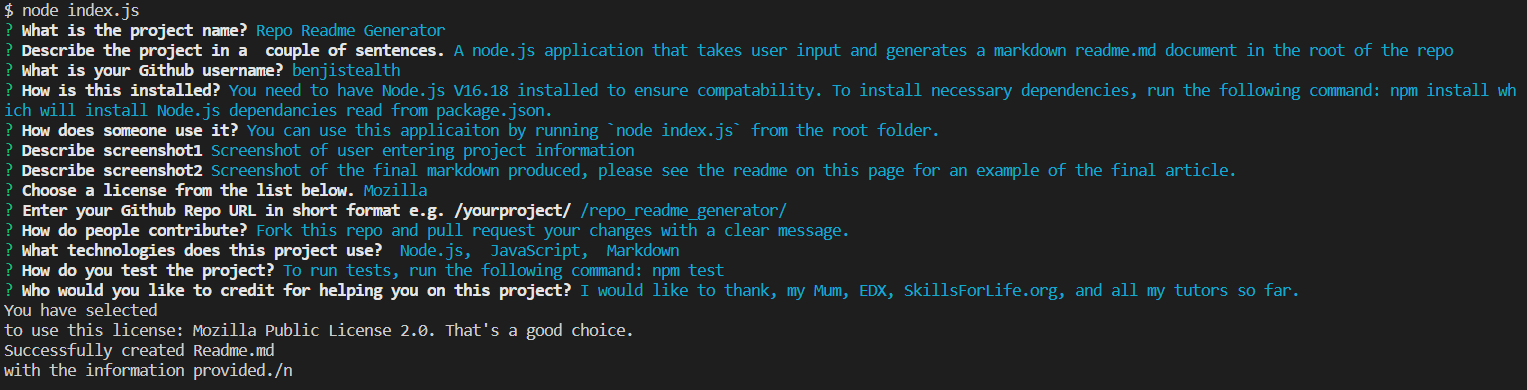
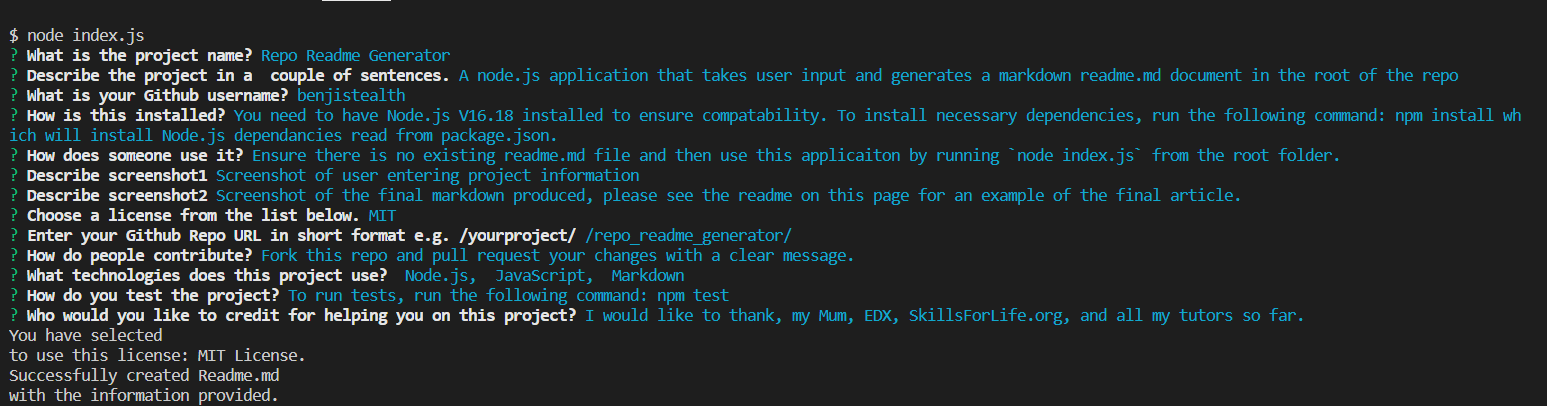
all tested and working properly, readme.md inc

Changed region(s): [[0.0, 0.0, 1.0, 1.0]]

diff --git a/assets/utils/generateMarkdown.js b/assets/utils/generateMarkdown.js
@@ -25,21 +25,17 @@ function generateMarkdown(readmeDetails) {
   const myOutputString = `You have selected
 to use this license: ${generateLicenseString(license)}.`;
 
+  for (let i = 0; i < readmeDetails.tech.length; i++) {
+    techBadge = readmeDetails.tech[i];
+    if (techBadge === " HTML") { readmeBadge += htmlBadge; }
+    if (techBadge === " CSS") { readmeBadge += cssBadge; }
+    if (techBadge === " JavaScript") { readmeBadge += jsBadge; }
+    if (techBadge === " Markdown") { readmeBadge += markdownBadge; }
+    if (techBadge === " Node.js") { readmeBadge += nodeBadge; }
+    if (techBadge === " Bootstrap") { readmeBadge += bootstrapBadge; }
+  }
 
-  
-  console.log(readmeDetails.tech);
-
-    for (let i = 0; i < readmeDetails.tech.length; i++) {
-      techBadge = readmeDetails.tech[i];
-      if (techBadge === " HTML") { readmeBadge += htmlBadge; }
-      if (techBadge === " CSS") { readmeBadge += cssBadge; }
-      if (techBadge === " JavaScript") { readmeBadge += jsBadge; }
-      if (techBadge === " Markdown") { readmeBadge += markdownBadge; }
-      if (techBadge === " Node.js") { readmeBadge += nodeBadge; }
-      if (techBadge === " Bootstrap") { readmeBadge += bootstrapBadge; }
-    }
-    
-    if (readmeBadge.length < 4) {readmeBadge = "Unknown Technology!";}
+  if (readmeBadge.length < 4) { readmeBadge = "Unknown Technology!"; }
 
 
   function generateLicenseString(license) {

diff --git a/readme.md b/readme.md
@@ -1,6 +1,7 @@
-# kuyiluyli
+
+# Repo Readme Generator
                        
-[![License: GPL v3](https://img.shields.io/badge/License-GPLv3-blue.svg)](https://www.gnu.org/licenses/gpl-3.0)
+[![License: MIT](https://img.shields.io/badge/License-MIT-yellow.svg)](https://opensource.org/licenses/MIT)
 
 
 ## Table of Contents
@@ -17,16 +18,16 @@
 
 ## Description
 
-- yilkuyiluli
+- A node.js application that takes user input and generates a markdown readme.md document in the root of the repo
 
 
-## uoluo;oiu;
+## Screenshot of user entering project information
 
     
   <img alt="Screenshot_1" src="./assets/images/screenshot1.png">
 
 
-## uo;iuo;i
+## Screenshot of the final markdown produced, please see the readme on this page for an example of the final article.
 
 
   <img alt="Screenshot_2" src="./assets/images/screenshot2.png">
@@ -34,21 +35,21 @@
 
 ## Installation
 
-https://github.com/uilliuolo;iou;i8;'9
+https://github.com/benjistealth/repo_readme_generator/
 
 First clone the above repository
 
-uilliuuo
+You need to have Node.js V16.18 installed to ensure compatability. To install necessary dependencies, run the following command: npm install which will install Node.js dependancies read from package.json.
 
 
 ## Usage
 
-- uiluo;lo;
+- Ensure there is no existing readme.md file and then use this applicaiton by running `node index.js` from the root folder.
 
 
 ## Contribute
 
- - ululiuol
+ - Fork this repo and pull request your changes with a clear message.
 
 ## Credits
 
@@ -56,185 +57,25 @@ Credit to Mozilla Developer Network and Stack Overflow for some help with some t
 
 ## Additional Credits
 
- - Additional credit to uo;uo;
+ - Additional credit to I would like to thank, my Mum, EDX, SkillsForLife.org, and all my tutors so far.
 
 ## License
 
- - This project is licensed under the [![License: GPL v3](https://img.shields.io/badge/License-GPLv3-blue.svg)](https://www.gnu.org/licenses/gpl-3.0) located in the root of the repository. 
+ - This project is licensed under the [![License: MIT](https://img.shields.io/badge/License-MIT-yellow.svg)](https://opensource.org/licenses/MIT) located in the root of the repository. 
 
 ## Technologies Used
 
- - 
+ - ![License](https://img.shields.io/badge/Lang-Node.js-orange)![License](https://img.shields.io/badge/Lang-JavaScript-purple)![License](https://img.shields.io/badge/Lang-Markdown-green)
 
 ## Tests
  - How to test the project:
 
- - ou;luo;
+ - To run tests, run the following command: npm test
 
 ## Questions
 If you have any questions about the repo, please open an issue.
 
- - Github Username - uilliuol
+ - Github Username - benjistealth
 
- - This Repo Issues - https://github.com/uilliuolo;iou;i8;'9issues/
-
-# iluil
-                       
-[![License](https://img.shields.io/badge/License-Apache_2.0-blue.svg)](https://opensource.org/licenses/Apache-2.0)
-
-
-## Table of Contents
-
-* [Description](#description)
-* [Installation](#installation)
-* [Usage](#usage)
-* [Contribute](#contribute)
-* [Credits](#credits)
-* [License](#license)
-* [Technologies](#technologies)
-* [Tests](#tests)
-* [Questions](#questions)
-
-## Description
-
-- yilyuli7
-
-
-## u79;89
-
-    
-  <img alt="Screenshot_1" src="./assets/images/screenshot1.png">
-
-
-## ;80
-
-
-  <img alt="Screenshot_2" src="./assets/images/screenshot2.png">
-
-
-## Installation
-
-https://github.com/yl7l78;80;890
-
-First clone the above repository
-
-y7l79p
-
-
-## Usage
-
-- uil79;7
-
-
-## Contribute
-
- - 980;80;80
-
-## Credits
-
-Credit to Mozilla Developer Network and Stack Overflow for some help with some technical issues.
-
-## Additional Credits
-
- - Additional credit to uiluilu
-
-## License
-
- - This project is licensed under the [![License](https://img.shields.io/badge/License-Apache_2.0-blue.svg)](https://opensource.org/licenses/Apache-2.0) located in the root of the repository. 
-
-## Technologies Used
-
- - ![License](https://img.shields.io/badge/Lang-HTML-yellow)![License](https://img.shields.io/badge/Lang-Bootstrap.js-pink)![License](https://img.shields.io/badge/Lang-CSS-blue)
-
-## Tests
- - How to test the project:
-
- - ululuilu
-
-## Questions
-If you have any questions about the repo, please open an issue.
-
- - Github Username - yl7l7
-
- - This Repo Issues - https://github.com/yl7l78;80;890issues/
-
-# ilkyiluli
-                       
-[![License: MPL 2.0](https://img.shields.io/badge/License-MPL_2.0-brightgreen.svg)](https://opensource.org/licenses/MPL-2.0)
-
-
-## Table of Contents
-
-* [Description](#description)
-* [Installation](#installation)
-* [Usage](#usage)
-* [Contribute](#contribute)
-* [Credits](#credits)
-* [License](#license)
-* [Technologies](#technologies)
-* [Tests](#tests)
-* [Questions](#questions)
-
-## Description
-
-- uiluilul
-
-
-## uo;uo;
-
-    
-  <img alt="Screenshot_1" src="./assets/images/screenshot1.png">
-
-
-## uoi;oiu;oi
-
-
-  <img alt="Screenshot_2" src="./assets/images/screenshot2.png">
-
-
-## Installation
-
-https://github.com/uiluiluilio;io;
-
-First clone the above repository
-
-uiluoiluol;
-
-
-## Usage
-
-- uluo;luo
-
-
-## Contribute
-
- - io;io;iu
-
-## Credits
-
-Credit to Mozilla Developer Network and Stack Overflow for some help with some technical issues.
-
-## Additional Credits
-
- - Additional credit to uo;uo;
-
-## License
-
- - This project is licensed under the [![License: MPL 2.0](https://img.shields.io/badge/License-MPL_2.0-brightgreen.svg)](https://opensource.org/licenses/MPL-2.0) located in the root of the repository. 
-
-## Technologies Used
-
- - Unknown Technology!
-
-## Tests
- - How to test the project:
-
- - ou;u;
-
-## Questions
-If you have any questions about the repo, please open an issue.
-
- - Github Username - uiluiluil
-
- - This Repo Issues - https://github.com/uiluiluilio;io;issues/
+ - This Repo Issues - https://github.com/benjistealth/repo_readme_generator/issues/
 
